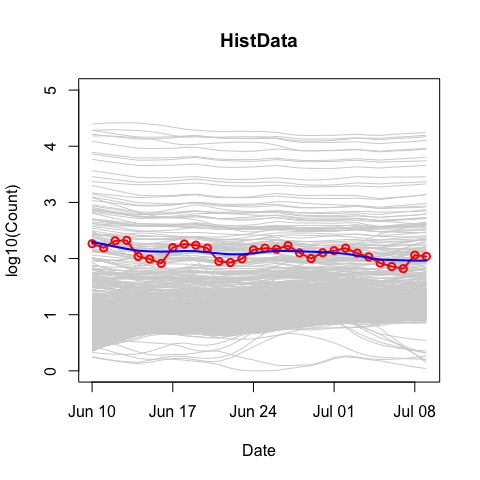
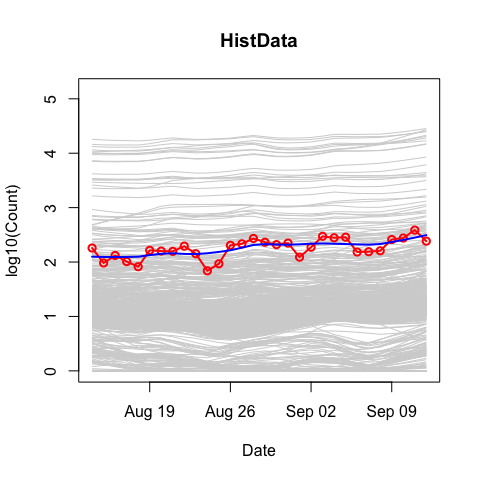
amend README

diff --git a/README.md b/README.md
@@ -6,13 +6,11 @@
 
 ### features
 
-  - compute the rank percentile and nominal rank of a package’s
-    downloads from RStudio’s [CRAN
-    mirror](http://cran-logs.rstudio.com).
-  - visualize a package’s relative and absolute position in the
-    distribution of package downloads for a day (cross-sectionally) or
-    over time (longitudinally).
-  - provide S3 plot methods for ‘cranlogs’ output.
+  - compute and visualize the counts and ranks (nominal and percentile)
+    of downloads from RStudio’s [CRAN
+    mirror](http://cran-logs.rstudio.com) or from
+    [Bioconductor](https://bioconductor.org/).
+  - provide S3 plot method sfor `cranlogs::cran_downloads()`.
 
 NOTE: ‘packageRank’ relies on an active internet connection.
 
@@ -36,11 +34,13 @@ remotes::install_github("lindbrook/packageRank", build_vignettes = TRUE)
 ### background
 
 The ‘[cranlogs](https://cran.r-project.org/package=cranlogs)’ package
-computes the raw number of downloads using RStudio’s [CRAN
-mirror](http://cran-logs.rstudio.com). For example, we can see that the
+computes the raw number of downloads of packages or R using RStudio’s
+[CRAN mirror](http://cran-logs.rstudio.com).
+
+For example, we can see that on the first day of 2019 the
 ‘[HistData](https://cran.r-project.org/package=HistData)’ package was
-downloaded 51 times on the first day of
-2019:
+downloaded 51
+times:
 
 ``` r
 cranlogs::cran_downloads(packages = "HistData", from = "2019-01-01", to = "2019-01-01")
@@ -63,15 +63,15 @@ cranlogs::cran_downloads(packages = "HistData", from = "2019-01-01", to = "2019-
 > 7 2019-01-07   205 HistData
 ```
 
-In both cases, lurking in the background is the “compared to what?”
-question. Is 51 downloads large or small? Is the pattern that week
-typical or unusual? To answer these questions, ‘packageRank’ puts
-package download counts into greater context.
+In both cases, the “compared to what?” question lurks in the background.
+Is 51 downloads large or small? Is the pattern that first week typical
+or unusual? To answer these questions, ‘packageRank’ puts package
+download counts into greater context.
 
 ### compute percentiles and ranks
 
-To do so, the package can compute the rank percentile and nominal rank
-of a package’s downloads:
+To do so, we can compute the rank percentile and nominal rank of a
+package’s downloads:
 
 ``` r
 packageRank(packages = "HistData", date = "2019-01-01")
@@ -79,10 +79,9 @@ packageRank(packages = "HistData", date = "2019-01-01")
 > 1 2019-01-01 HistData        51       93.4 920 of 14,020
 ```
 
-Here, we see that the 51 downloads puts ‘HistData’ in the 93rd
-percentile. This statistic, familiar to anyone who’s taken a
-standardized test, tell us that 93% of packages had fewer downloads than
-‘HistData’: \[1\]
+Here, we see that 51 downloads put ‘HistData’ in the 93rd percentile.
+This statistic, familiar to anyone who’s taken a standardized test, tell
+us that 93% of packages had fewer downloads than ‘HistData’:\[1\]
 
 ``` r
 pkg.rank <- packageRank(packages = "HistData", date = "2019-01-01")
@@ -103,14 +102,14 @@ round(100 * pkgs.with.fewer.downloads / tot.pkgs , 1)
 > [1] 93.4
 ```
 
-We also see that 51 downloads puts ‘HistData’ in 920th place among the
-14,020 packages with at least one download. What makes this rank
-“nominal” is the fact that multiple packages can have the same number
-of downloads. As a result, a package’s nominal rank (but not its rank
-percentile) will sometimes be affected by its name: packages with the
-same number of downloads will be sorted in alphabetical order. For the
-case at hand, ‘HistData’ benefits from the fact that it is second in the
-list (vector) of packages with 51 downloads:
+We also see that 51 downloads put ‘HistData’ in 920th place among the
+14,020 packages with at least one download. This rank is “nominal”
+because multiple packages can have the same number of downloads. As a
+result, a package’s nominal rank (but not its rank percentile) can be
+affected by its names: packages with the same number of downloads are
+sorted in alphabetical order. For the case at hand, ‘HistData’ benefits
+from the fact that it is second in the list of packages with 51
+downloads:
 
 ``` r
 pkg.rank <- packageRank(packages = "HistData", date = "2019-01-01")
@@ -126,36 +125,54 @@ downloads[downloads == 51]
 >              51              51
 ```
 
-### visualization (cross-sectional)
-
-To visualize a package’s relative position on a given day’s downloads,
-simply use the
-following:
+With this release, ‘packageRank’ offers a version of this function for
+Bioconductor:
 
 ``` r
-plot(packageRank(packages = "HistData", date = "2019-05-01"))
+bioconductorRank(packages = "monocle", date = "2019-01")
+>      date packages downloads percentile        rank
+> 1 2019-01  monocle      3528       95.5 86 of 1,896
 ```
 
-<img src="man/figures/README-plot1-1.png" style="display: block; margin: auto auto auto 0;" />
+Note the difference in date format: the logs on Bioconductor are
+aggreagated either to the month or to the year.
+
+### visualization (cross-sectional)
+
+To visualize a package’s relative position using ranks, use the S3
+generic plot
+method:
+
+``` r
+plot(packageRank(packages = "HistData", date = "2019-01-01"))
+```
+
+<img src="man/figures/README-plot1a-1.png" style="display: block; margin: auto auto auto 0;" />
+
+``` r
+plot(bioconductorRank(packages = "cicero", date = "2019-01"))
+```
+
+<img src="man/figures/README-plot1b-1.png" style="display: block; margin: auto auto auto 0;" />
 
 This cross-sectional view plots a package’s rank (x-axis) against the
-logarithm of its downloads (y-axis) and highlights its position in the
-overall distribution of downloads.
+base 10 logarithm of its downloads (y-axis) and highlights its position
+in the overall distribution of downloads. In addition, the plot
+illustrates 1) a package’s rank percentile and raw count of downloads
+(in red); 2) the location of the 75th, 50th and 25th percentiles (dotted
+gray vertical lines); 3) the package with the most downloads, in this
+case ‘WGCNA’ for CRAN and ‘BiocInstaller’ for Bioconductor (in blue, top
+left); and 4) the total number of downloads (2,982,767 for CRAN;
+1,854,793 for Bioconductor) (in blue, top right).
 
-In addition, it also illustrates 1) a package’s rank percentile and its
-raw count of downloads (in red); 2) the location of the 75th, 50th and
-25th percentiles (dotted gray vertical lines); 3) the package with the
-most downloads, in this case ‘devtools’ (in blue); and 4) the total
-number of downloads (2,982,767) on that day (in blue).
-
-Note that you can even pass a vector of
+You can even pass a vector of
 packages:
 
 ``` r
-plot(packageRank(packages = c("cholera", "HistData", "regtools"), date = "2019-05-01"))
+plot(packageRank(packages = c("cholera", "HistData", "regtools"), date = "2019-01-01"))
 ```
 
-<img src="man/figures/README-plot2-1.png" style="display: block; margin: auto auto auto 0;" />
+<img src="man/figures/README-plot2a-1.png" style="display: block; margin: auto auto auto 0;" />
 
 ### visualization (longitudinal)
 
@@ -182,35 +199,74 @@ packages:
 plot(packageRankTime(packages = c("Rcpp", "HistData", "rlang"), when = "last-month"))
 ```
 
-<img src="man/figures/README-plot_ts2-1.png" style="display: block; margin: auto auto auto 0;" />
-
 Note that only two time frames are available: “last-week” and
-“last-month”.
+“last-month”. Also, this function is not currently available for
+Bioconductor: the CRAN version has server side support via the
+‘cranlogs’ package.
 
-### visualizing ‘cranlogs’
+### computing download counts
 
-To visualize the download counts from `cranlogs::cran_download()`,
-‘packageRank’ provides a generic S3 plot() method. All you need to do
-is substitute cran\_downloads2() for
-cran\_download():
-
-``` r
-plot(cran_downloads2(packages = c("data.table", "Rcpp", "rlang"), from = "2019-01-01", to = "2019-01-01"))
-```
-
-<img src="man/figures/README-cranlogsB1-1.png" style="display: block; margin: auto auto auto 0;" />
+To compute or plot package download counts, ‘packageRank’ offers a
+couple of choices. If you want to use ‘cranlogs’ style syntax, use
+‘cran\_downloads2()’. The only difference between this function and
+‘cranlogs::cran\_downloads()’ is that ‘cran\_downloads2()’ has an
+generic S3 plot method.
 
 ``` r
-plot(cran_downloads2(packages = c("data.table", "Rcpp", "rlang"), when = "last-month"))
+cranlogs::cran_downloads(packages = "HistData", when = "last-week")
+>         date count  package
+> 1 2019-09-06   153 HistData
+> 2 2019-09-07   155 HistData
+> 3 2019-09-08   161 HistData
+> 4 2019-09-09   259 HistData
+> 5 2019-09-10   276 HistData
+> 6 2019-09-11   387 HistData
+> 7 2019-09-12   242 HistData
 ```
-
-<img src="man/figures/README-cranlogsB2-1.png" style="display: block; margin: auto auto auto 0;" />
 
 ``` r
-plot(cran_downloads2(packages = c("data.table", "Rcpp", "rlang"), from = "2019-01-01", to = "2019-01-31"))
+cran_downloads2(packages = "HistData", when = "last-week")
+>         date count  package
+> 1 2019-09-06   153 HistData
+> 2 2019-09-07   155 HistData
+> 3 2019-09-08   161 HistData
+> 4 2019-09-09   259 HistData
+> 5 2019-09-10   276 HistData
+> 6 2019-09-11   387 HistData
+> 7 2019-09-12   242 HistData
+plot(cran_downloads2(packages = "HistData", when = "last-week"))
 ```
 
-<img src="man/figures/README-cranlogsB3-1.png" style="display: block; margin: auto auto auto 0;" />
+![](man/figures/README-cran_downloads2-1.png)<!-- -->
+
+Otherwise, I recommend using `cranDownloads()`. Not only does it have a
+generic S3 plot method, but it has a more flexible interface, especially
+for the ‘for’ and ‘to’ arguments. With ‘cranlogs::cran\_downloads’, you
+have to write out the entire 8 character date. With ‘cranDownloads()’,
+you can provide dates as: yyyy-mm-dd, yyyy-mm or yyyy.
+
+``` r
+# Downloads from January through June 2019
+plot(cranDownloads(packages = "HistData", from = "2019-01-15", to = "2019-06-25"), points = FALSE, smooth = TRUE)
+```
+
+![](man/figures/README-cranDownloads-1.png)<!-- -->
+
+``` r
+
+# Downloads from January through June 2019
+plot(cranDownloads(packages = "HistData", from = "2019-01", to = "2019-06"), points = FALSE, smooth = TRUE)
+```
+
+![](man/figures/README-cranDownloads-2.png)<!-- -->
+
+``` r
+
+# Year-to-date 
+plot(cranDownloads(packages = "HistData", from = "2019"), points = FALSE, smooth = TRUE)
+```
+
+![](man/figures/README-cranDownloads-3.png)<!-- -->
 
 ### graphics: base R and ‘ggplot2’
 
